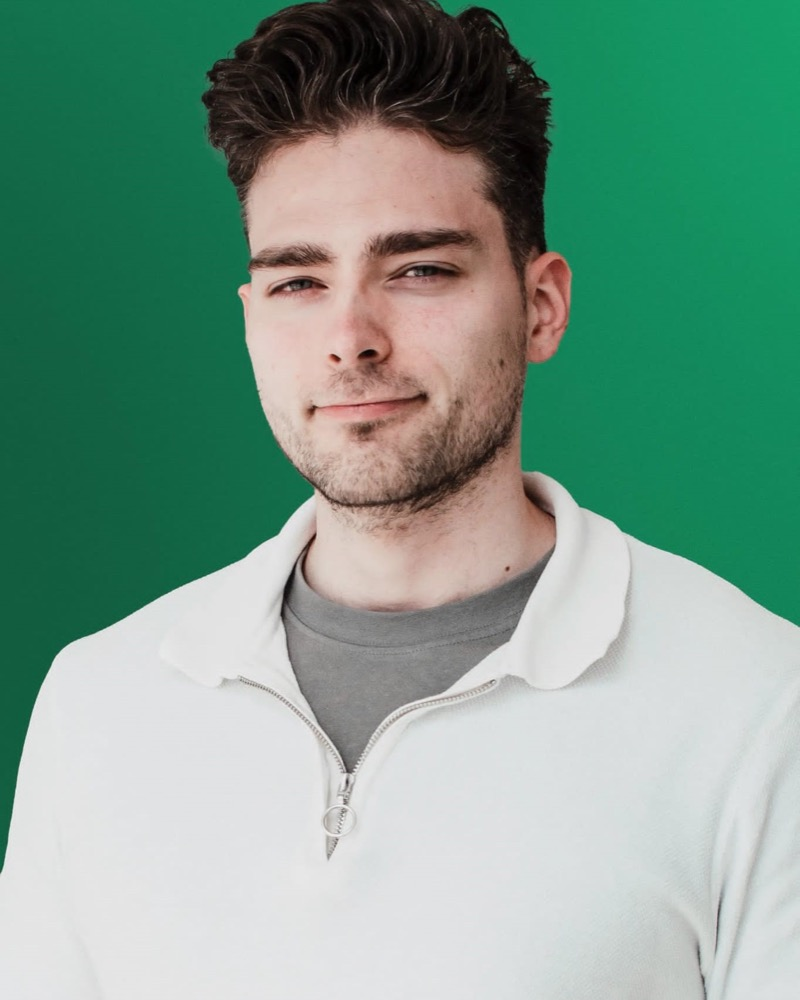
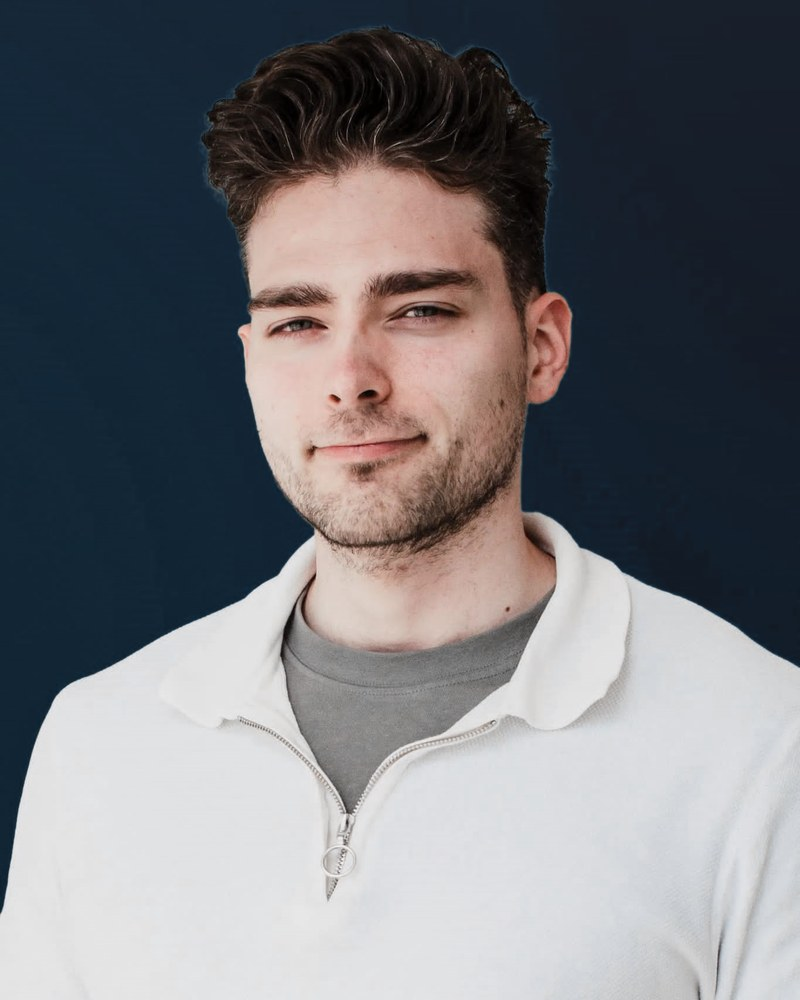
About: full-colour photo — green-screen keyed onto a dark backdrop
Grayscale duotone made him look lifeless. Key out the green screen with
Pillow and composite over a dark theme-matched backdrop, keeping natural
colour (+ despill). Drop the CSS grayscale/blue-multiply treatment.

diff --git a/about.html b/about.html
@@ -69,8 +69,8 @@
     background-size:24px 24px;opacity:.5}
   .portrait-corner{position:absolute;top:9px;left:9px;width:20px;height:20px;border-top:1.5px solid var(--ac);border-left:1.5px solid var(--ac);z-index:3;opacity:.7}
   /* real photo drops in: <img class="portrait-img" src="sebastian.jpg" alt="Sebastian Zijlstra"> */
-  .portrait-img{position:absolute;inset:0;width:100%;height:100%;object-fit:cover;object-position:50% 22%;z-index:2;filter:grayscale(1) contrast(1.06) brightness(1.03)}
-  .portrait::after{content:"";position:absolute;inset:0;z-index:3;pointer-events:none;background:linear-gradient(165deg,rgba(91,156,255,.24) 0%,rgba(20,30,48,.35) 45%,rgba(11,14,19,.72) 100%);mix-blend-mode:multiply}
+  .portrait-img{position:absolute;inset:0;width:100%;height:100%;object-fit:cover;object-position:50% 30%;z-index:2;filter:contrast(1.02) saturate(1.03)}
+  .portrait::after{content:"";position:absolute;inset:0;z-index:3;pointer-events:none;background:linear-gradient(180deg,transparent 55%,rgba(11,14,19,.4) 100%)}
   .ph-silhouette{position:absolute;inset:0;z-index:2;display:flex;align-items:flex-end;justify-content:center}
   .ph-silhouette svg{width:72%;height:86%;opacity:.5}
   .ph-note{position:absolute;left:11px;bottom:10px;z-index:4;font-family:var(--mono);font-size:9px;letter-spacing:.06em;color:var(--tx3);text-transform:uppercase}